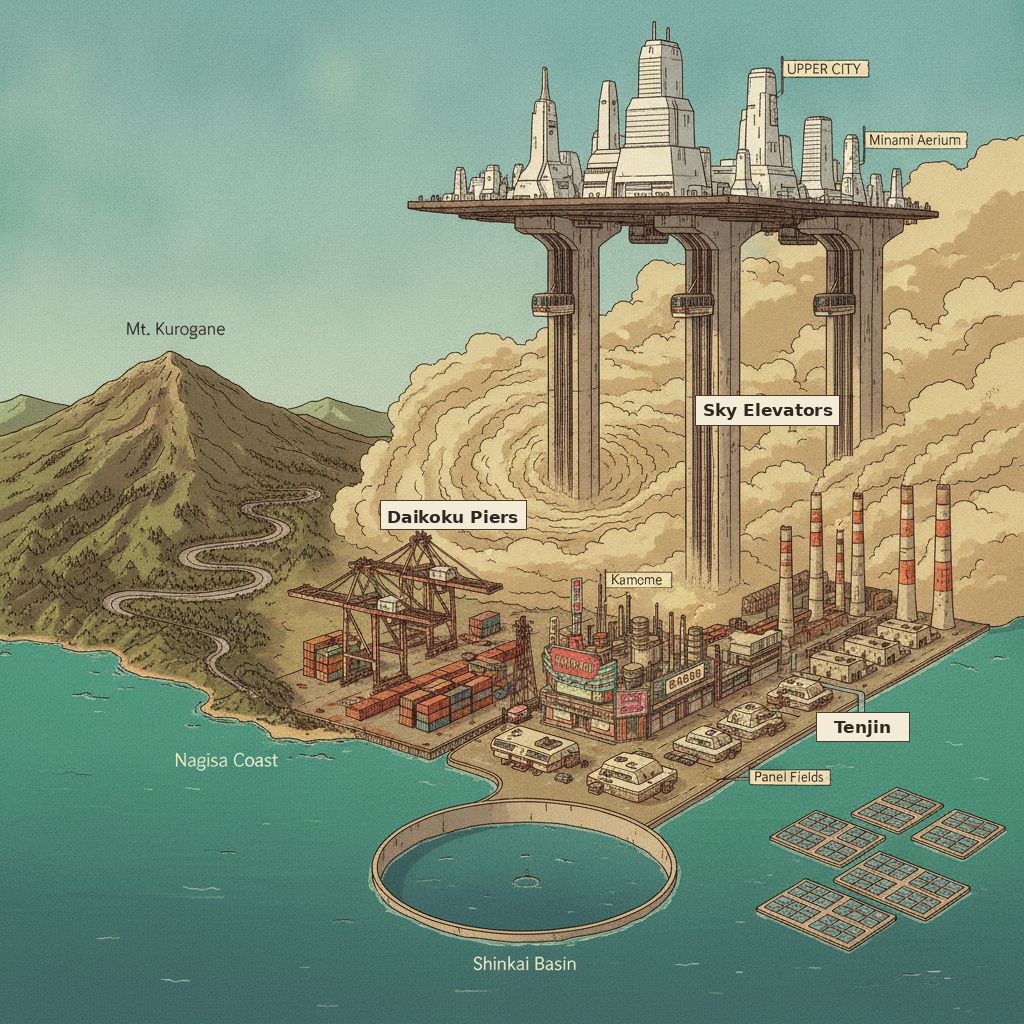
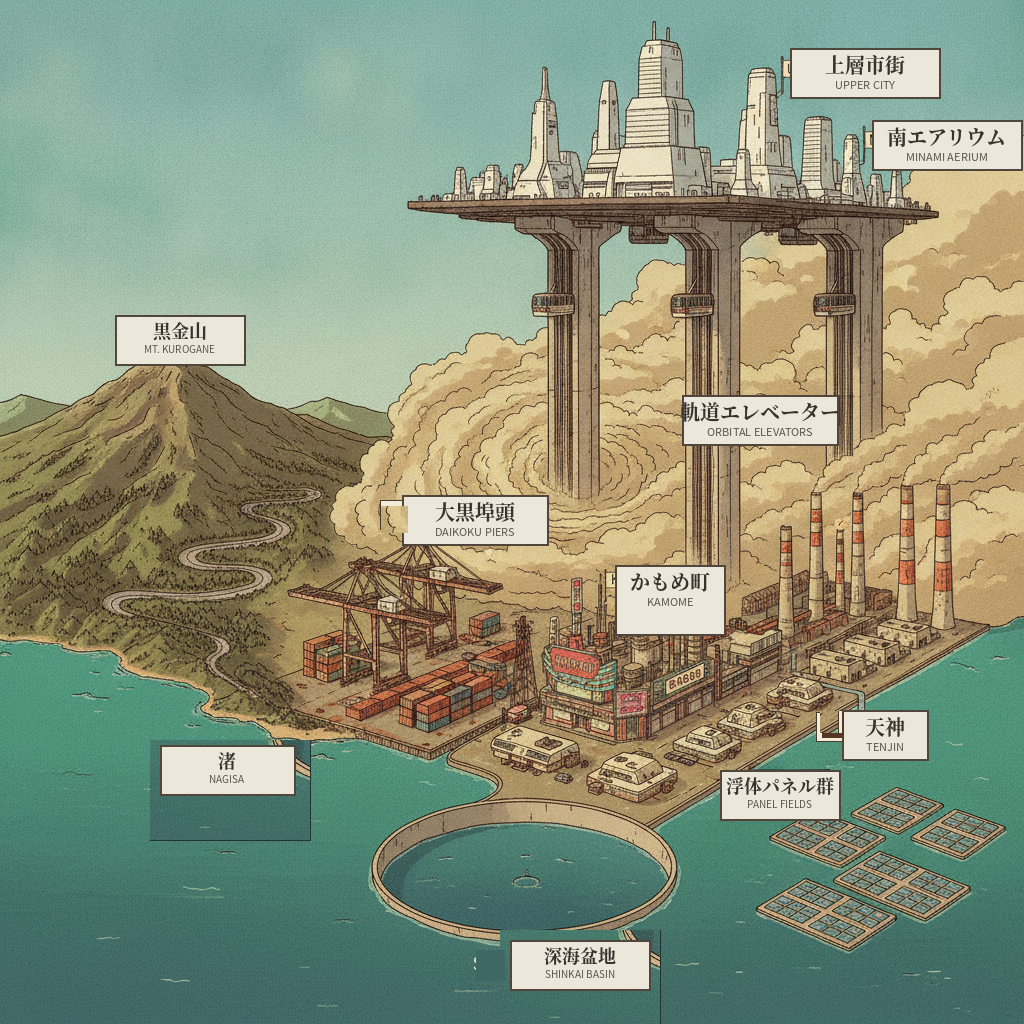
art-book rework (world-lore): style-bar pass PNGs + chapter.md

diff --git a/art-book/world-lore/chapter.md b/art-book/world-lore/chapter.md
@@ -244,4 +244,16 @@ The ordinances' small print contains the city's strangest decade-long argument: 
 9. **The Meter Maid's jurisdiction:** she tickets wherever you idle illegally — does she operate in the Upper City too, or is she a Lower City fixture? (Affects the comedy engine's range.)
 10. **Nagisa's teal catch:** the fishing economy runs on seafood from the changed sea. Is the catch safe to eat, and does anyone in-universe ask? (The Fishmonger Brotherhood's green-marble rite implies they ask every morning — the bible should say whether the question is ever answered. It shouldn't be.)
 
+## Plausibility — what's depicted, why it's that way (2026-10-05)
+
+Per Craig's law: dystopia allowed, unexplained eeriness is a defect, stereotype never. Every figure below was judged in the pixels against the bible (all faces masked; Dust Tithe — recurring filter/rinse costs; the sea mystery is never resolved). Full text in `~/workspace/game-design/art-book/plausibility.md`.
+
+- **`mock-dust-tithe.png` — PASS.** Rinse station under the expressway: masked attendant scrubbing a sedan's windshield, second masked figure at the booth window, barrels, shacks. *Reflects:* the Dust Tithe made literal — the recurring rinse cost every vehicle pays to keep moving; the booth is the transaction point. *Why:* the attendant scrubs because dust blinds windshields (survival, not luxury); the second figure takes payment (cash/Sol-88); the barrels are the water stock — water is the tithe's currency. Both are staff at their workplace.
+- **`impl-dust-tithe.png` — PASS.** "WASH & GO!" rinse bay in-engine: masked attendant pressure-washing a taxi under a canopy. *Why:* a working cab pays the tithe daily; one attendant, one job, no bystanders.
+- **`mock-elevator-build.png` — PASS.** Sky-elevator tower under construction: concrete core, red bracing, cranes hoisting, worker figures on the ground, scaffolds, and balconies. *Reflects:* the city's vertical ambition being built — the elevators are how the Aerium grows. *Why:* construction crew at their stations — ground (materials), scaffolds (assembly), balconies (supervision). A building site is the definitive permitted on-foot workplace: enclosed, everyone staffed.
+- **`impl-elevator-build.png` — PASS.** Tower in-engine: simplified shaft, red bracing, two cranes, ground-crew figures. *Why:* site staff at the material-handling level; the cranes are the assembly method.
+- **`mock-sea-night.png` — PASS.** Night at sea: two figures in a small boat (one standing in coat and cap, one seated in hooded oilskin with respirator) facing offshore refinery platforms with burning flares. *Reflects:* the Shinkai basin's offshore face — industry's signature burning around the clock; the character law reaching even the sea. *Why:* a night boat crew — fishers run night shifts when the sea air clears; on a vessel, at work, the permitted presence; the flares are the landmark they work around.
+- **`impl-sea-night.png` — PASS.** Night sea in-engine: two figures in a boat, four flare platforms, stylized wave bands. *Why:* same crew logic; the seated figure's respirator is the character law; stylized waves because the sea is a shader surface at game fidelity.
+- **`mock-worldmap.png` — PASS.** The world map: Upper City on its elevator platform above the dust, Sky Elevator shafts, Daikoku Piers, Kamome, Tenjin, Shinkai Basin refineries, Panel Fields, Mt. Kurogane, Nagisa Coast. *Reflects:* the whole bible in one image — three strata, the districts, the dust layer as the literal divider between worlds; the map the GPS plans on. *Why:* every district shown because the map's job is orientation; the dust band sits between platform and ground because that is the city's founding geography; no figures because it is a cartographic document.
+
 *End of chapter. BIBLE DELTA pending — no implementation tasks until Craig approves the bible.*
